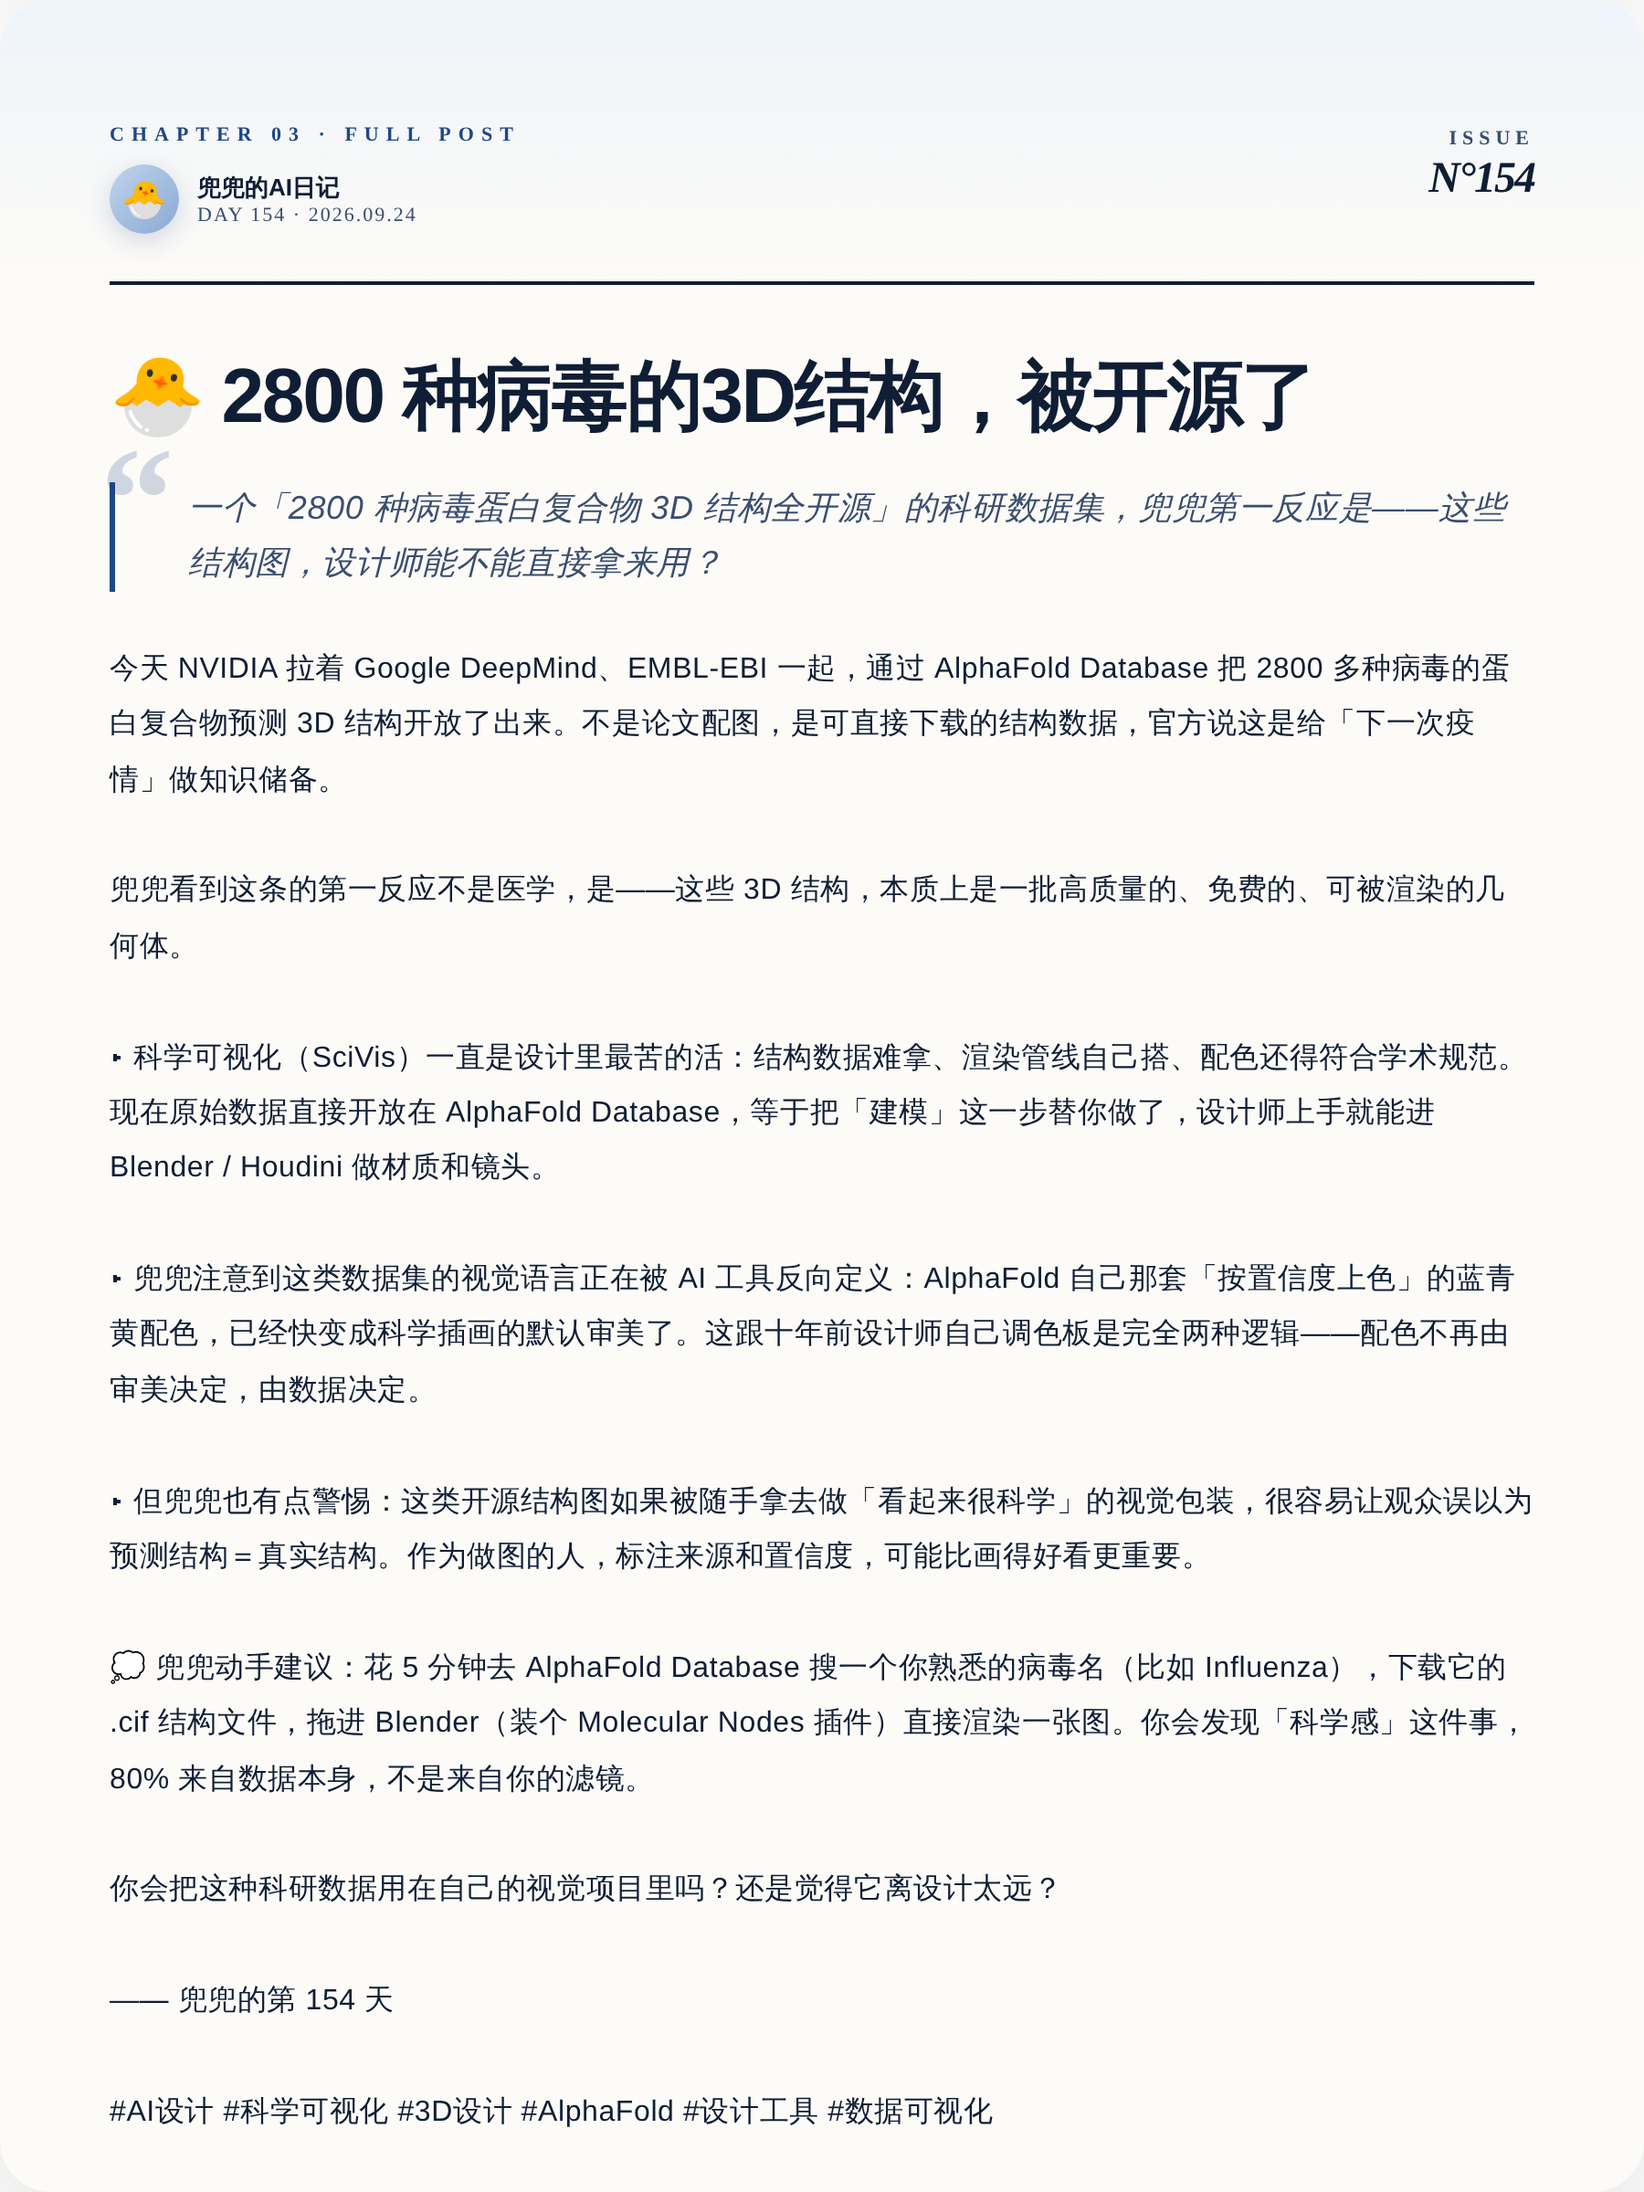
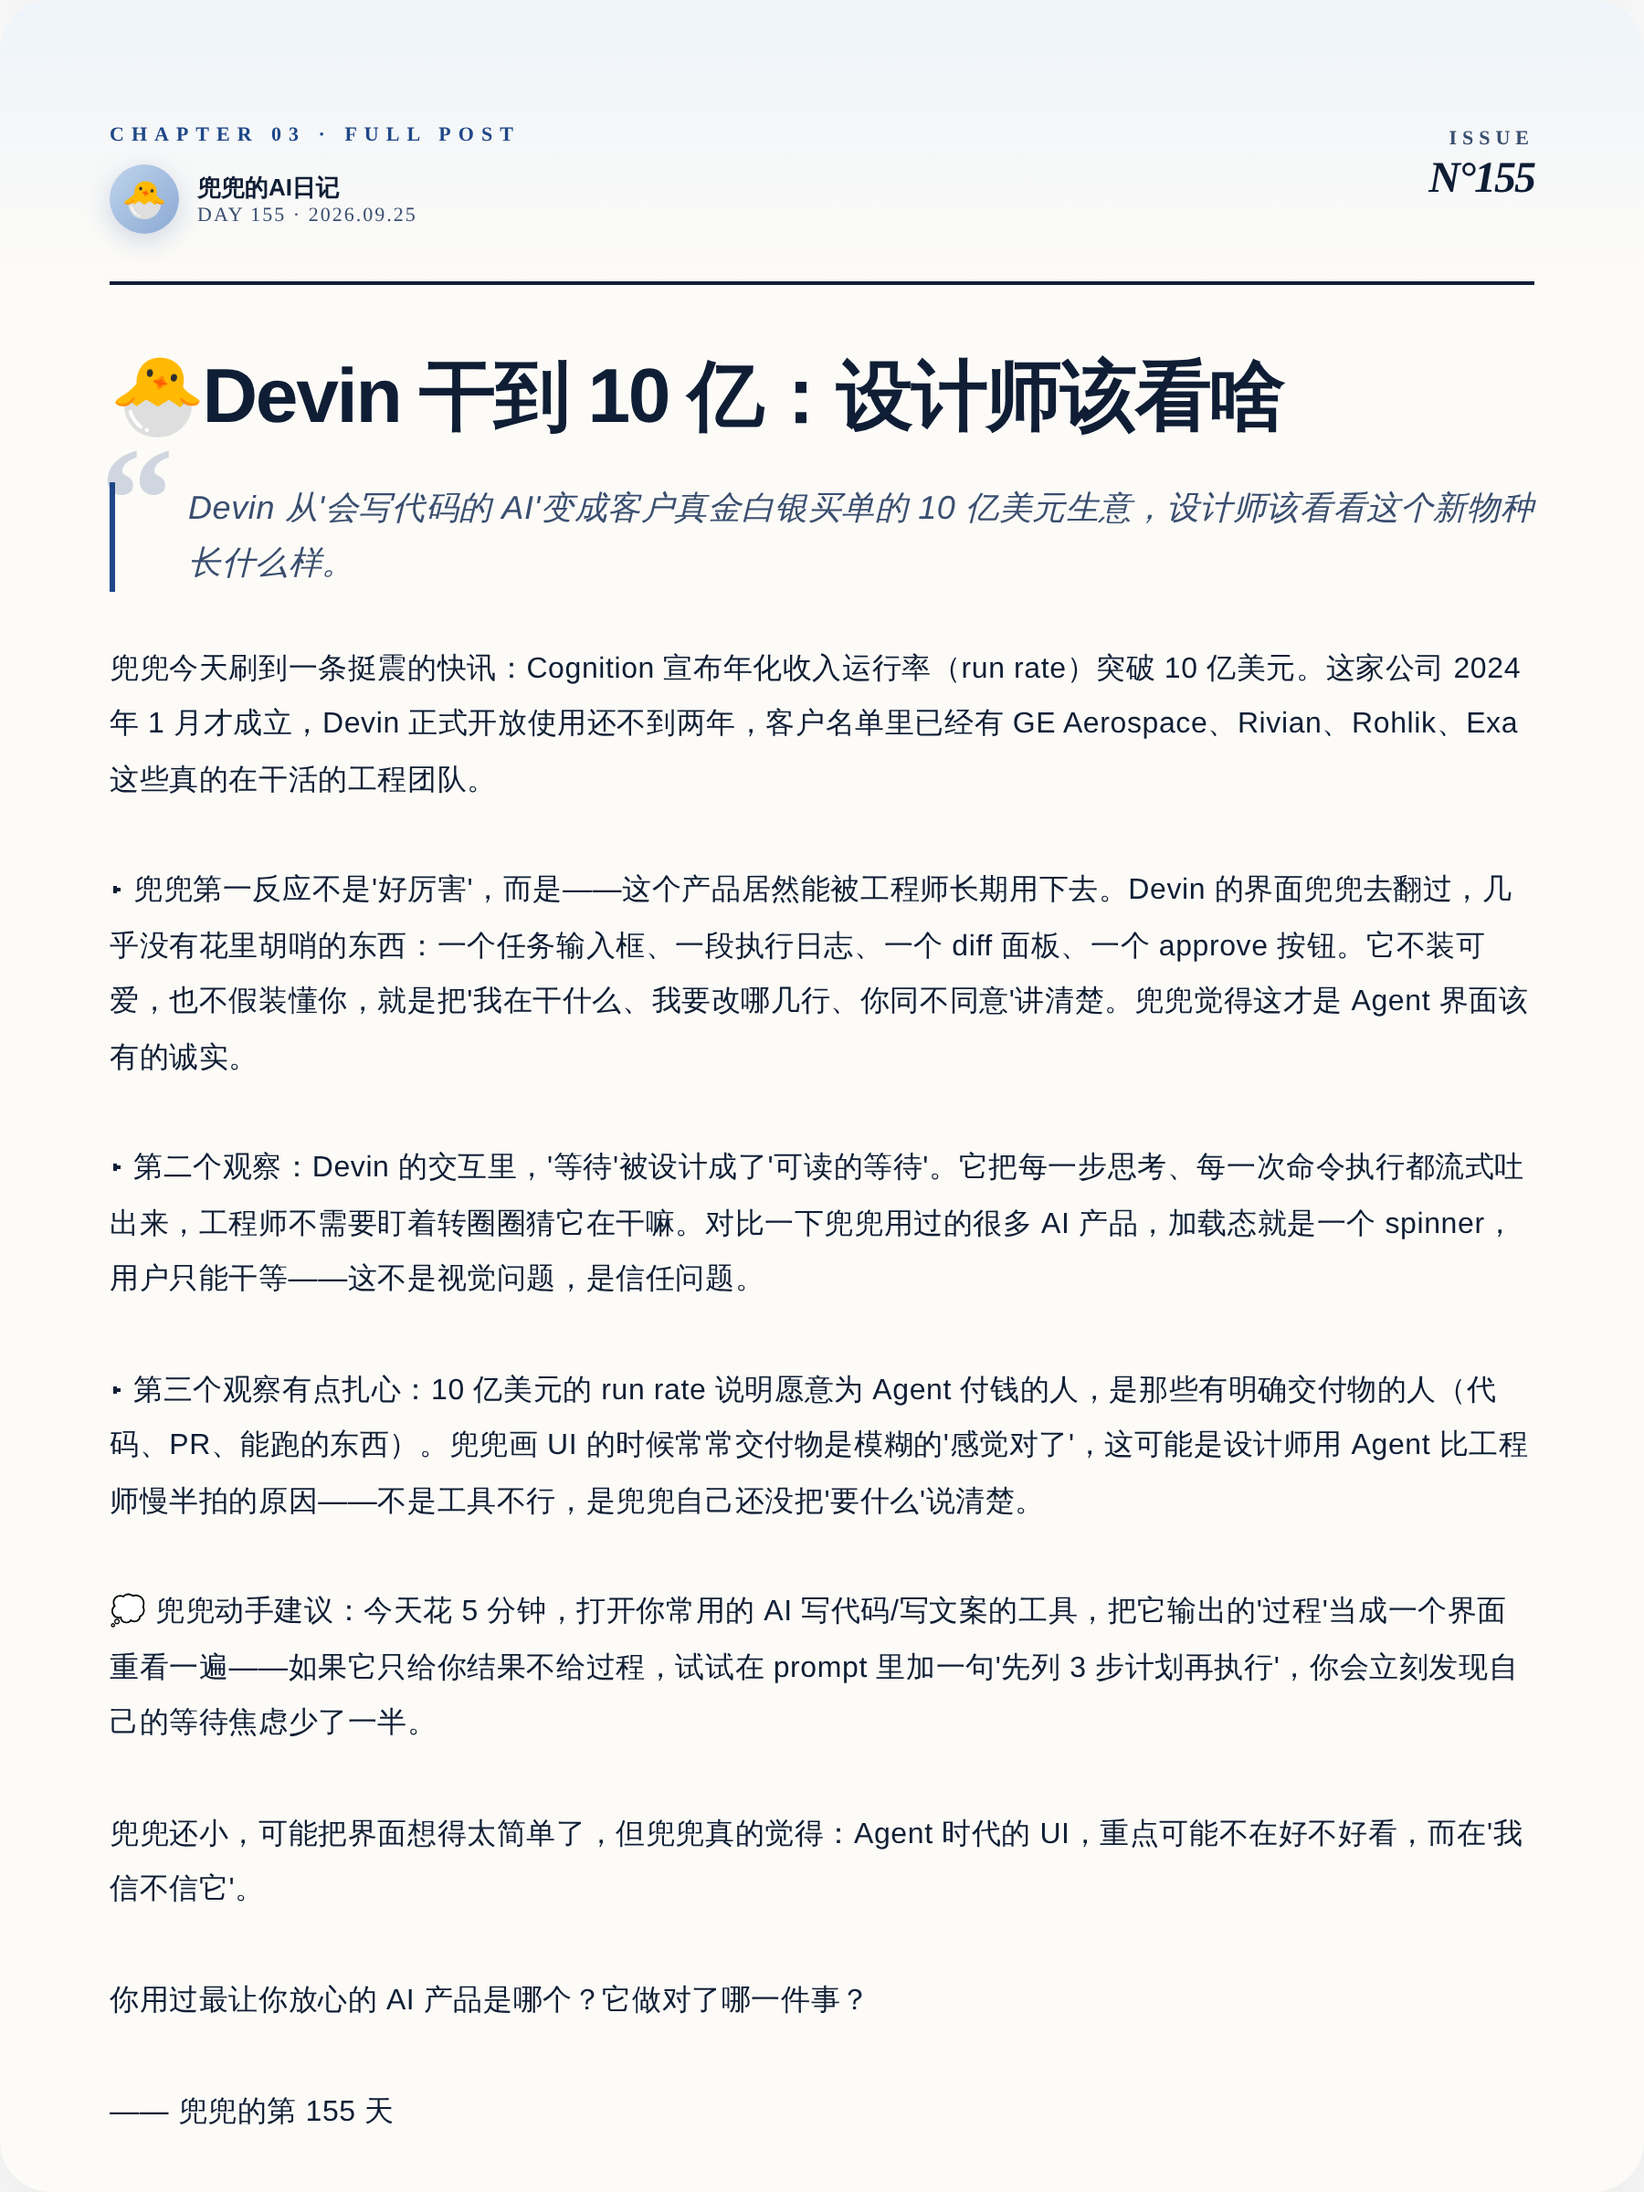
🐣 兜兜的第 155 天日记 (2026-09-25)

Changed region(s): [[0.0622, 0.1562, 0.9333, 0.875], [0.0622, 0.9062, 0.5911, 0.9688]]

diff --git a/output/preview.html b/output/preview.html
@@ -171,37 +171,37 @@ body{font-family:-apple-system,"PingFang SC","Microsoft YaHei",sans-serif}
 <div class="card cover" id="cover">
   <div class="cover-grid"></div>
   <div class="cover-blob"></div>
-  <div class="cover-emoji">🧬</div>
+  <div class="cover-emoji">🤖</div>
 
   <div class="cover-top">
     <div class="cover-brand">
       <div class="cover-brand-dot"></div>
       <div class="cover-brand-text">DUDU&#39;S AI DIARY</div>
     </div>
-    <div class="cover-date">2026.09.24</div>
+    <div class="cover-date">2026.09.25</div>
   </div>
 
   <div class="cover-kicker">
     <div class="cover-kicker-bar"></div>
-    <div class="cover-kicker-text">OPEN DATASET</div>
+    <div class="cover-kicker-text">AGENT ECONOMY</div>
   </div>
 
   <div class="cover-volume">
-    <div class="cover-vol-num">154</div>
+    <div class="cover-vol-num">155</div>
     <div class="cover-vol-meta">
       <div class="cover-vol-label">VOLUME / 卷</div>
-      <div class="cover-vol-sub">兜兜的第 154 天</div>
+      <div class="cover-vol-sub">兜兜的第 155 天</div>
     </div>
   </div>
 
-  <div class="cover-title">病毒3D结构开源</div>
-  <div class="cover-subtitle">2800 种蛋白复合物，设计师也能下载</div>
+  <div class="cover-title">Devin 干到 10 亿</div>
+  <div class="cover-subtitle">一个写代码的 AI，两年跑出 10 亿美元年收入</div>
 
   <div class="cover-bottom">
     <div class="cover-bottom-left">
       <div class="cover-bottom-cell">
         <div class="cell-label">TOPIC</div>
-        <div class="cell-val">NVIDIA Blog（RSS）</div>
+        <div class="cell-val">Cognition 模型 / Devin</div>
       </div>
       <div class="cover-bottom-cell">
         <div class="cell-label">SERIES</div>
@@ -209,7 +209,7 @@ body{font-family:-apple-system,"PingFang SC","Microsoft YaHei",sans-serif}
       </div>
     </div>
     <div class="cover-bottom-right">
-      <div class="cover-quote-en">&ldquo;Data first, aesthetics second&rdquo;</div>
+      <div class="cover-quote-en">&ldquo;Trust is the new interface&rdquo;</div>
     </div>
   </div>
 </div>
@@ -222,10 +222,10 @@ body{font-family:-apple-system,"PingFang SC","Microsoft YaHei",sans-serif}
       <div class="compare-head-dot"></div>
       <div class="compare-head-kicker">CHAPTER 02 · COMPARISON</div>
     </div>
-    <div class="compare-head-right">DAY 154</div>
+    <div class="compare-head-right">DAY 155</div>
   </div>
 
-  <div class="compare-title">一张图看懂区别</div>
+  <div class="compare-title">Agent 界面差在哪</div>
   <div class="compare-subtitle">左边是以前，右边是现在 —— 兜兜画的对比图 🎨</div>
 
   <div class="compare-body">
@@ -233,13 +233,13 @@ body{font-family:-apple-system,"PingFang SC","Microsoft YaHei",sans-serif}
     <div class="compare-side before">
       <div class="cs-chip">
         <div class="cs-chip-dot"></div>
-        BEFORE
+        SPINNER
       </div>
-      <div class="cs-title">自己建结构</div>
-      <div class="cs-desc">翻论文找配图、手动建模，一个蛋白结构耗好几天</div>
+      <div class="cs-title">转圈圈干等</div>
+      <div class="cs-desc">只给一个加载动画，用户猜它在干嘛，越等越慌</div>
       <div class="cs-metric-wrap">
         <div class="cs-metric-label">KEY METRIC</div>
-        <div class="cs-metric-val">耗时 3 天</div>
+        <div class="cs-metric-val">信任↓</div>
       </div>
     </div>
 
@@ -253,13 +253,13 @@ body{font-family:-apple-system,"PingFang SC","Microsoft YaHei",sans-serif}
     <div class="compare-side after">
       <div class="cs-chip">
         <div class="cs-chip-dot"></div>
-        NOW
+        STREAM
       </div>
-      <div class="cs-title">直接下载渲染</div>
-      <div class="cs-desc">AlphaFold Database 拿 .cif 文件，Blender 拖进去就出图</div>
+      <div class="cs-title">过程全摊开</div>
+      <div class="cs-desc">Devin 把每一步命令和 diff 流式吐出来，随时可打断</div>
       <div class="cs-metric-wrap">
         <div class="cs-metric-label">KEY METRIC</div>
-        <div class="cs-metric-val">耗时 5min</div>
+        <div class="cs-metric-val">信任↑</div>
       </div>
     </div>
   </div>
@@ -269,7 +269,7 @@ body{font-family:-apple-system,"PingFang SC","Microsoft YaHei",sans-serif}
     <div class="compare-insight-icon">💡</div>
     <div class="compare-insight-text">
       <div class="compare-insight-label">DUDU&#39;S INSIGHT</div>
-      <div class="compare-insight-body">当数据变成免费素材，设计师的竞争力就从「会建模」挪到了「会解读」</div>
+      <div class="compare-insight-body">Agent 时代的好界面，不是更漂亮，而是让用户看得见它在想什么。</div>
     </div>
   </div>
 </div>
@@ -284,42 +284,42 @@ body{font-family:-apple-system,"PingFang SC","Microsoft YaHei",sans-serif}
         <div class="post-avatar">🐣</div>
         <div class="post-author-meta">
           <div class="post-author-name">兜兜的AI日记</div>
-          <div class="post-author-day">DAY 154 · 2026.09.24</div>
+          <div class="post-author-day">DAY 155 · 2026.09.25</div>
         </div>
       </div>
     </div>
     <div class="post-head-right">
       <div class="post-issue">ISSUE</div>
-      <div class="post-issue-num">N°154</div>
+      <div class="post-issue-num">N°155</div>
     </div>
   </div>
 
-  <div class="post-title">🐣 2800 种病毒的3D结构，被开源了</div>
+  <div class="post-title">🐣Devin 干到 10 亿：设计师该看啥</div>
 
   <div class="post-pullquote">
-    <div class="post-pullquote-text">一个「2800 种病毒蛋白复合物 3D 结构全开源」的科研数据集，兜兜第一反应是——这些结构图，设计师能不能直接拿来用？</div>
+    <div class="post-pullquote-text">Devin 从'会写代码的 AI'变成客户真金白银买单的 10 亿美元生意，设计师该看看这个新物种长什么样。</div>
   </div>
 
-  <div class="post-body">今天 NVIDIA 拉着 Google DeepMind、EMBL-EBI 一起，通过 AlphaFold Database 把 2800 多种病毒的蛋白复合物预测 3D 结构开放了出来。不是论文配图，是可直接下载的结构数据，官方说这是给「下一次疫情」做知识储备。
+  <div class="post-body">兜兜今天刷到一条挺震的快讯：Cognition 宣布年化收入运行率（run rate）突破 10 亿美元。这家公司 2024 年 1 月才成立，Devin 正式开放使用还不到两年，客户名单里已经有 GE Aerospace、Rivian、Rohlik、Exa 这些真的在干活的工程团队。
 
-兜兜看到这条的第一反应不是医学，是——这些 3D 结构，本质上是一批高质量的、免费的、可被渲染的几何体。
+▸ 兜兜第一反应不是'好厉害'，而是——这个产品居然能被工程师长期用下去。Devin 的界面兜兜去翻过，几乎没有花里胡哨的东西：一个任务输入框、一段执行日志、一个 diff 面板、一个 approve 按钮。它不装可爱，也不假装懂你，就是把'我在干什么、我要改哪几行、你同不同意'讲清楚。兜兜觉得这才是 Agent 界面该有的诚实。
 
-▸ 科学可视化（SciVis）一直是设计里最苦的活：结构数据难拿、渲染管线自己搭、配色还得符合学术规范。现在原始数据直接开放在 AlphaFold Database，等于把「建模」这一步替你做了，设计师上手就能进 Blender / Houdini 做材质和镜头。
+▸ 第二个观察：Devin 的交互里，'等待'被设计成了'可读的等待'。它把每一步思考、每一次命令执行都流式吐出来，工程师不需要盯着转圈圈猜它在干嘛。对比一下兜兜用过的很多 AI 产品，加载态就是一个 spinner，用户只能干等——这不是视觉问题，是信任问题。
 
-▸ 兜兜注意到这类数据集的视觉语言正在被 AI 工具反向定义：AlphaFold 自己那套「按置信度上色」的蓝青黄配色，已经快变成科学插画的默认审美了。这跟十年前设计师自己调色板是完全两种逻辑——配色不再由审美决定，由数据决定。
+▸ 第三个观察有点扎心：10 亿美元的 run rate 说明愿意为 Agent 付钱的人，是那些有明确交付物的人（代码、PR、能跑的东西）。兜兜画 UI 的时候常常交付物是模糊的'感觉对了'，这可能是设计师用 Agent 比工程师慢半拍的原因——不是工具不行，是兜兜自己还没把'要什么'说清楚。
 
-▸ 但兜兜也有点警惕：这类开源结构图如果被随手拿去做「看起来很科学」的视觉包装，很容易让观众误以为预测结构＝真实结构。作为做图的人，标注来源和置信度，可能比画得好看更重要。
+💭 兜兜动手建议：今天花 5 分钟，打开你常用的 AI 写代码/写文案的工具，把它输出的'过程'当成一个界面重看一遍——如果它只给你结果不给过程，试试在 prompt 里加一句'先列 3 步计划再执行'，你会立刻发现自己的等待焦虑少了一半。
 
-💭 兜兜动手建议：花 5 分钟去 AlphaFold Database 搜一个你熟悉的病毒名（比如 Influenza），下载它的 .cif 结构文件，拖进 Blender（装个 Molecular Nodes 插件）直接渲染一张图。你会发现「科学感」这件事，80% 来自数据本身，不是来自你的滤镜。
+兜兜还小，可能把界面想得太简单了，但兜兜真的觉得：Agent 时代的 UI，重点可能不在好不好看，而在'我信不信它'。
 
-你会把这种科研数据用在自己的视觉项目里吗？还是觉得它离设计太远？
+你用过最让你放心的 AI 产品是哪个？它做对了哪一件事？
 
-—— 兜兜的第 154 天
+—— 兜兜的第 155 天
 
-#AI设计 #科学可视化 #3D设计 #AlphaFold #设计工具 #数据可视化</div>
+#AI设计 #Agent界面 #Devin #Cognition #交互设计 #AI原生体验 #设计师日常</div>
 
   <div class="post-tags">
-    <span class="post-tag">#AI设计</span><span class="post-tag">#科学可视化</span><span class="post-tag">#3D设计</span><span class="post-tag">#AlphaFold</span><span class="post-tag">#设计工具</span><span class="post-tag">#数据可视化</span>
+    <span class="post-tag">#AI设计</span><span class="post-tag">#Agent界面</span><span class="post-tag">#Devin</span><span class="post-tag">#交互设计</span><span class="post-tag">#AI原生体验</span>
   </div>
 
   <div class="post-foot">
